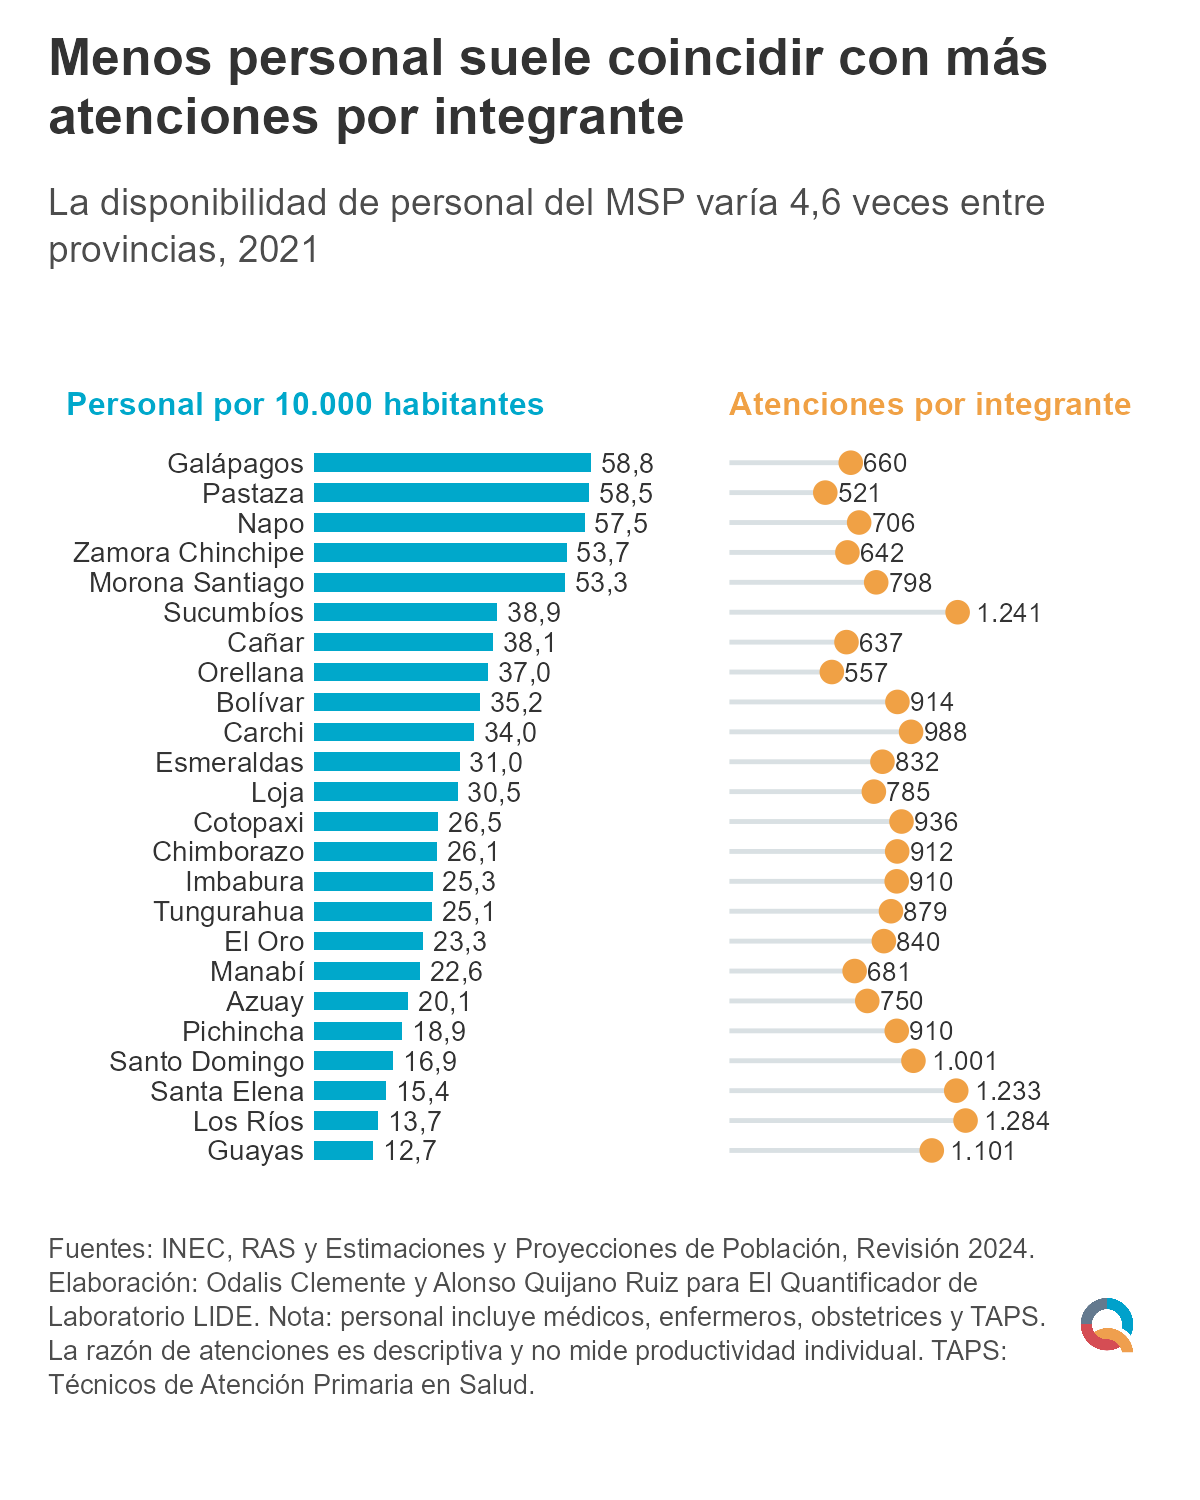
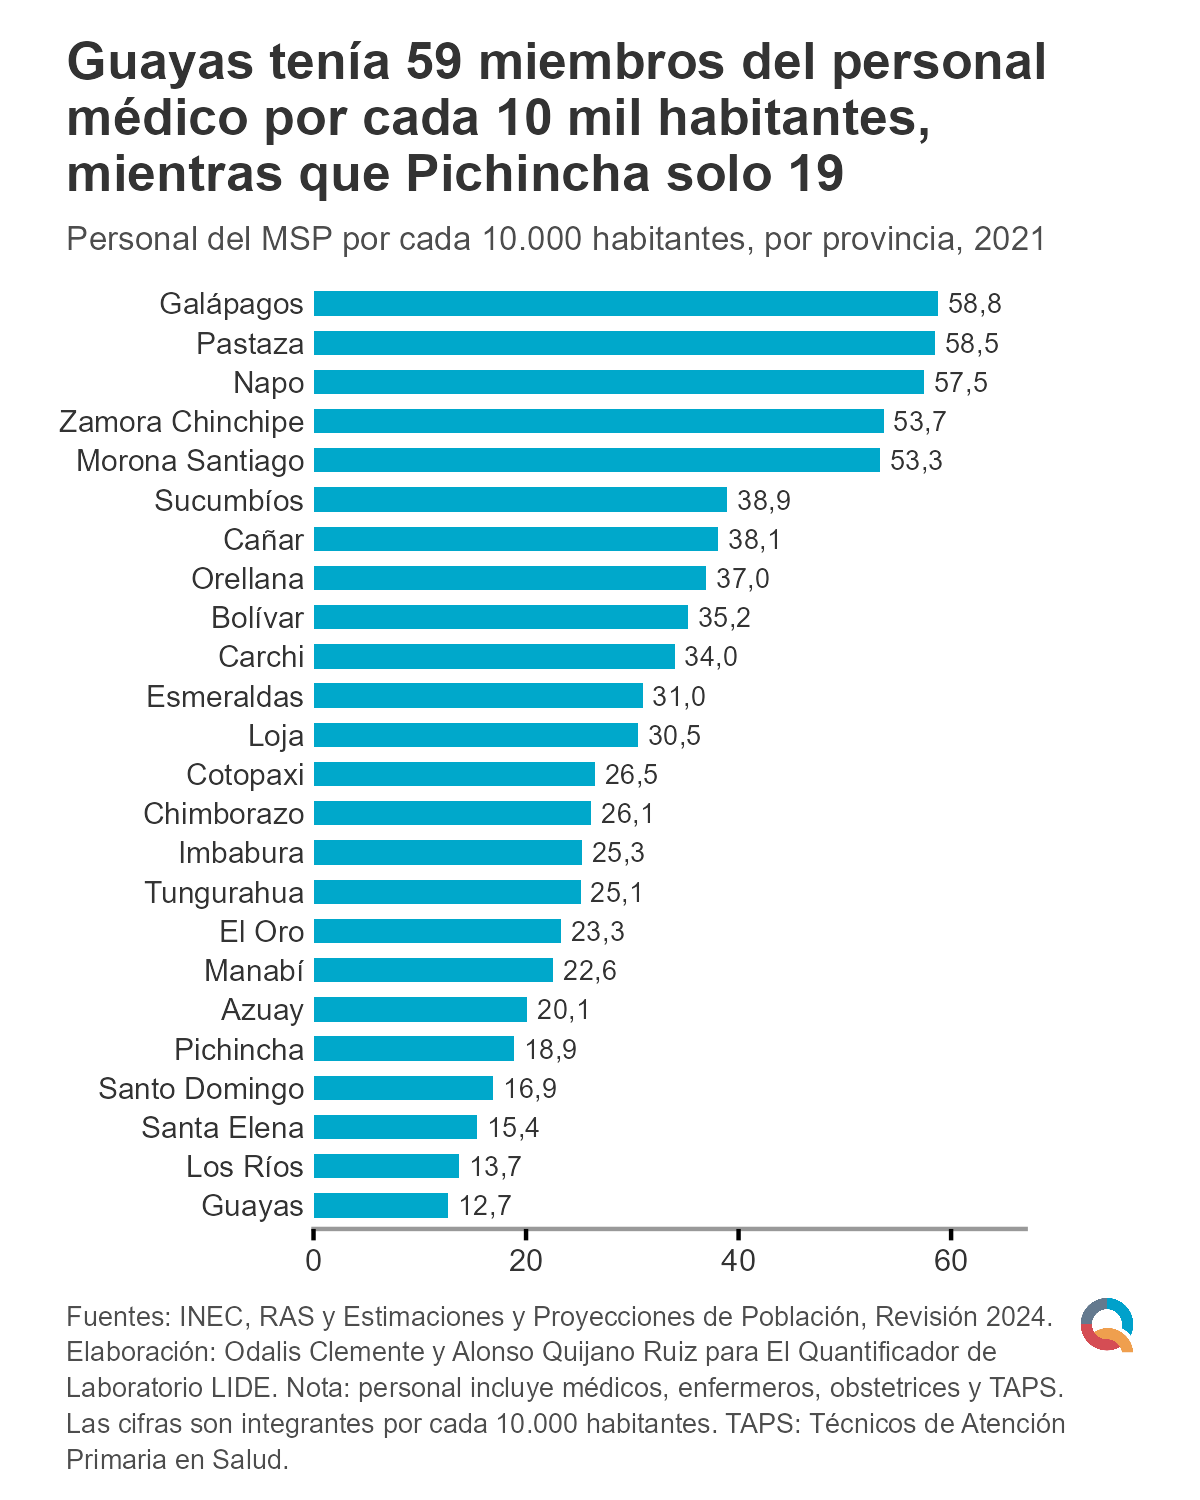
Simplify provincial health staffing chart

Changed region(s): [[0.0308, 0.0307, 0.9558, 0.9813]]

diff --git a/data/sources/ras_personal_salud_provincial.md b/data/sources/ras_personal_salud_provincial.md
@@ -1,4 +1,4 @@
-# Fuentes de datos: personal del MSP, atenciones y población provincial
+# Fuentes de datos: personal del MSP y población provincial
 
 ## Dataset
 
@@ -39,7 +39,6 @@ Archivo original del INEC:
 | `tenf` | Enfermeros |
 | `tobst` | Obstetrices |
 | `ttaps` | Técnicos de Atención Primaria en Salud (TAPS) |
-| `taten` | Total de atenciones registradas |
 | `poblacion_2021` | Población provincial estimada al 30 de junio de 2021 |
 
 ## Notas metodológicas
@@ -48,13 +47,8 @@ Archivo original del INEC:
 - El indicador principal suma médicos, enfermeros, obstetrices y TAPS y lo divide
   para la población provincial estimada; se expresa por cada 10.000 habitantes.
 - Las provincias se ordenan de mayor a menor disponibilidad de personal.
-- El panel derecho divide las atenciones registradas para el total de las cuatro
-  categorías de personal. Es una relación descriptiva y no una medida de
-  productividad individual: una atención puede involucrar otras categorías y una
-  misma persona puede recibir varias atenciones durante el año.
-- La correlación de rangos de Spearman entre personal por 10.000 habitantes y
-  atenciones por integrante es de -0,60. Se presenta como asociación descriptiva,
-  sin atribuir causalidad.
+- La figura muestra un único ranking de barras horizontales, ordenado de mayor a
+  menor disponibilidad de personal.
 - Las estimaciones de población de la Revisión 2024 están referidas al 30 de junio
   de cada año.
 
